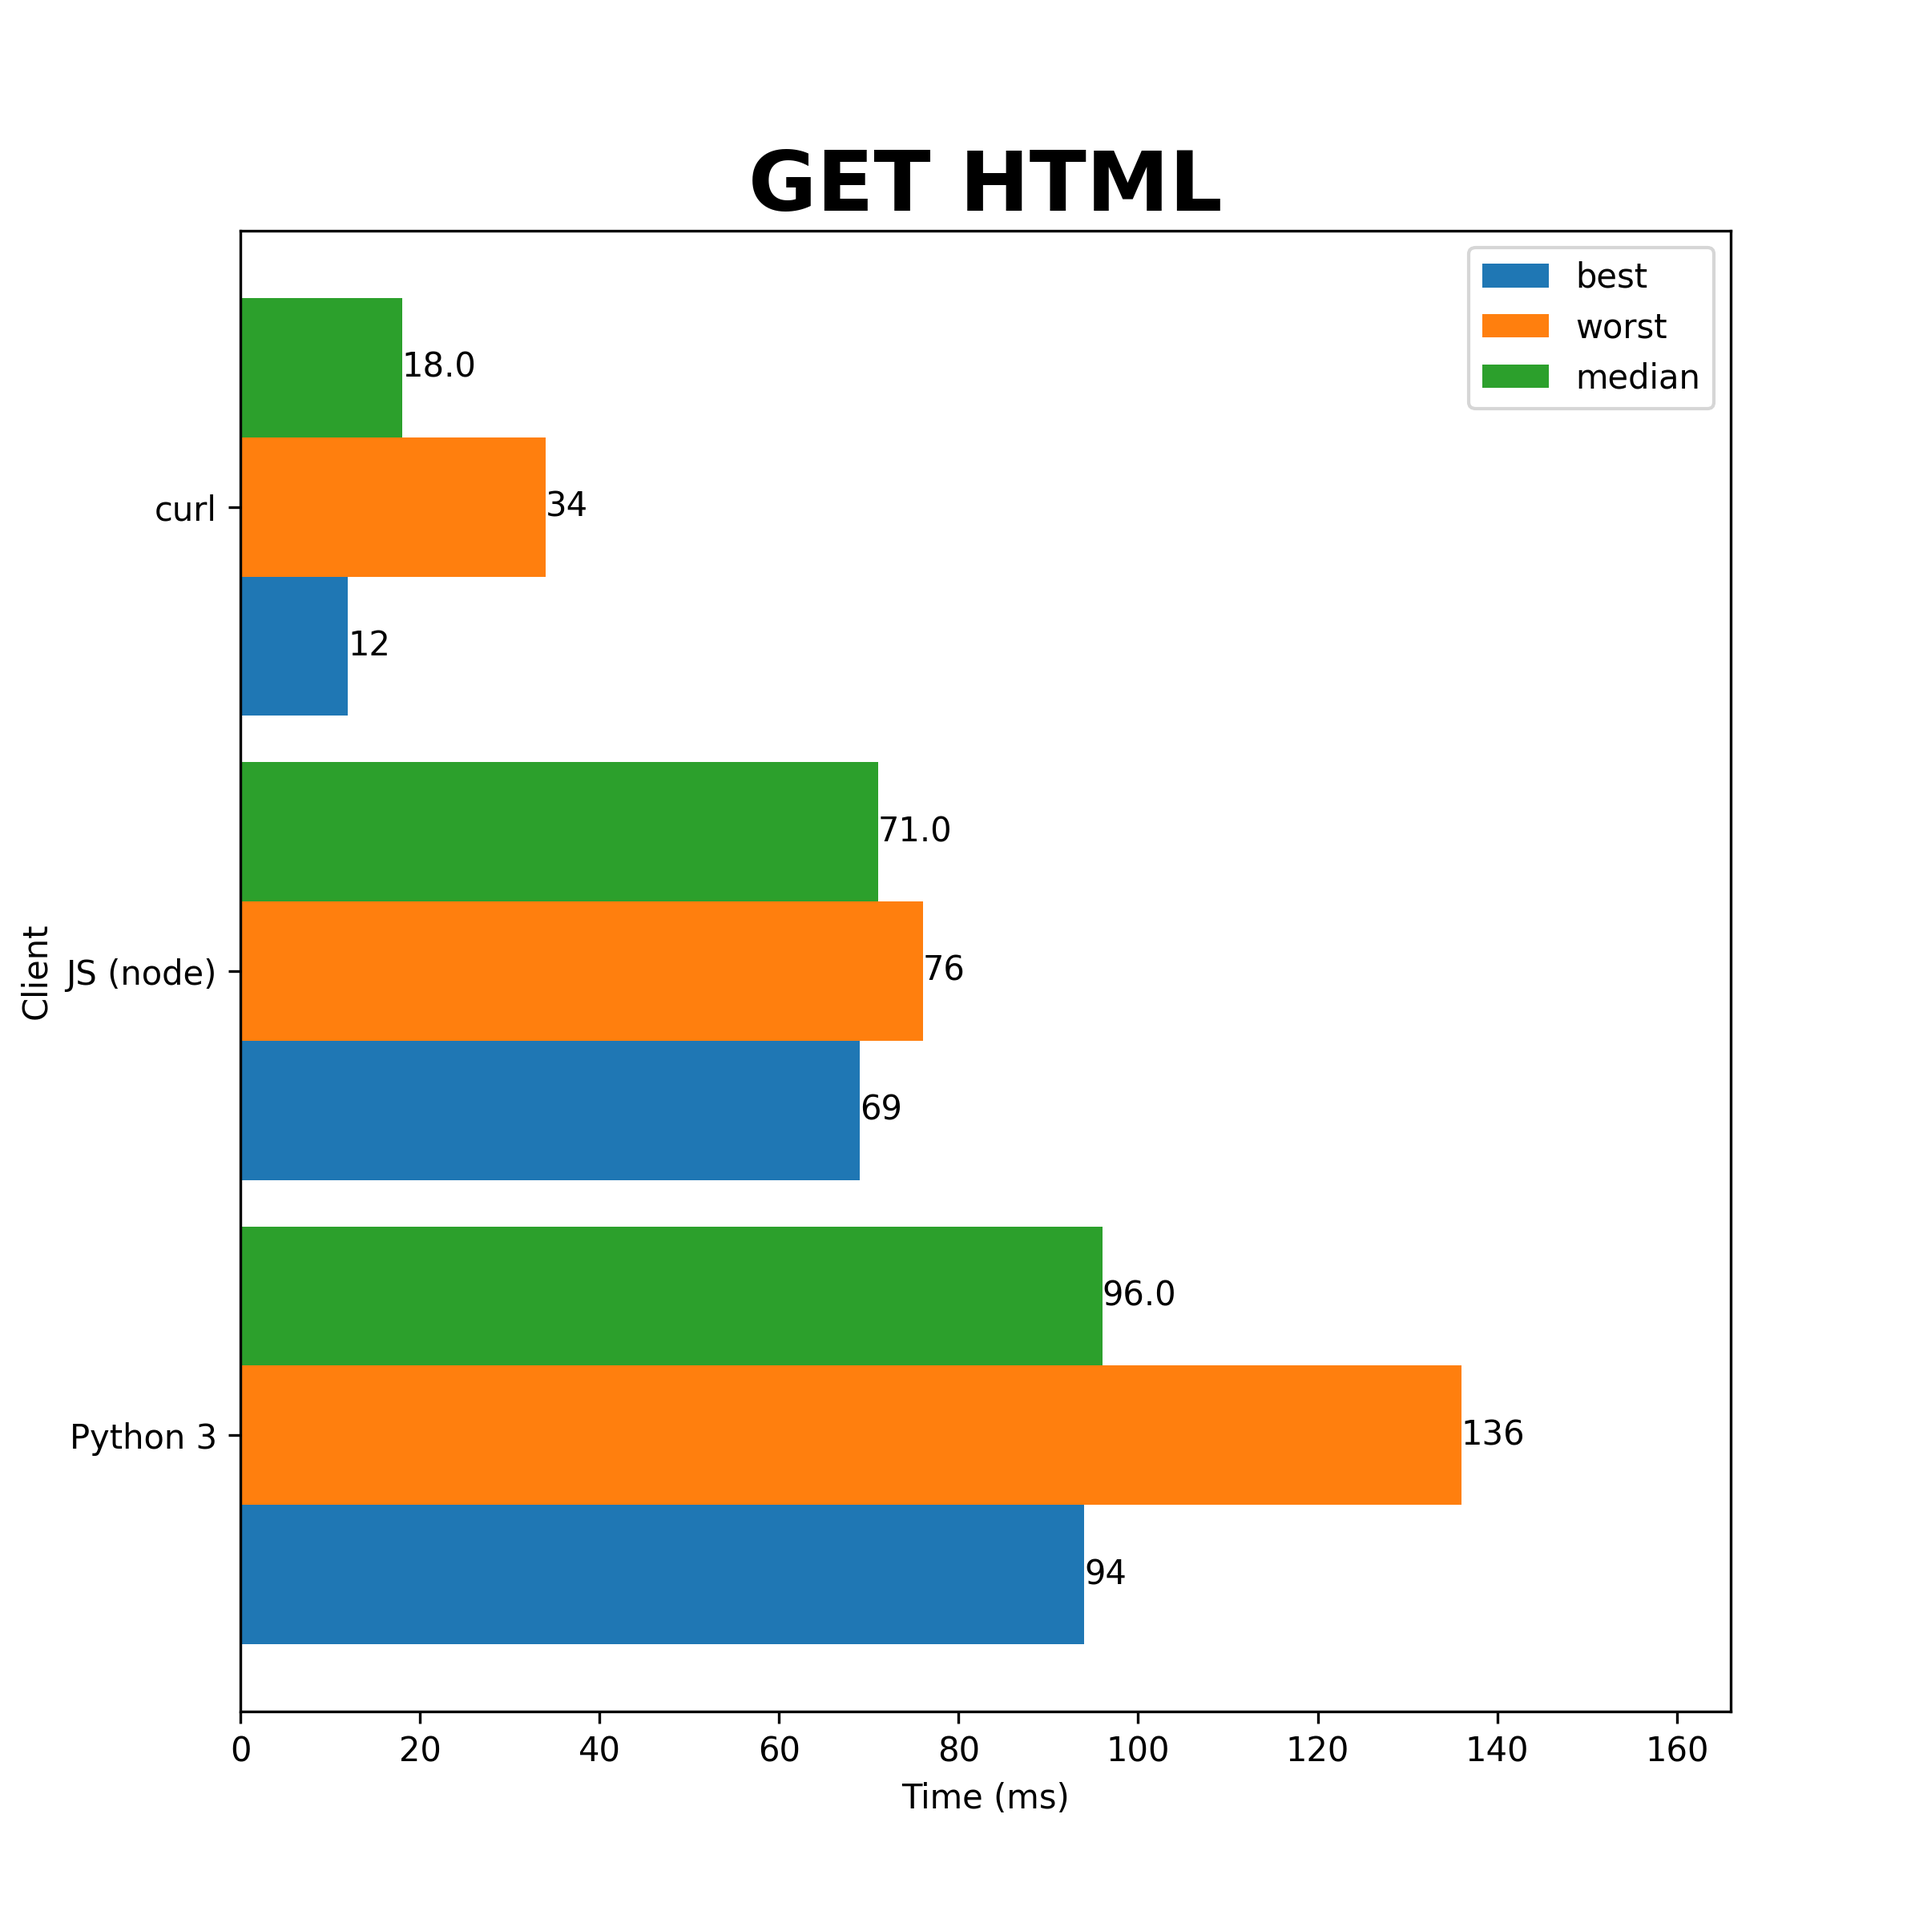
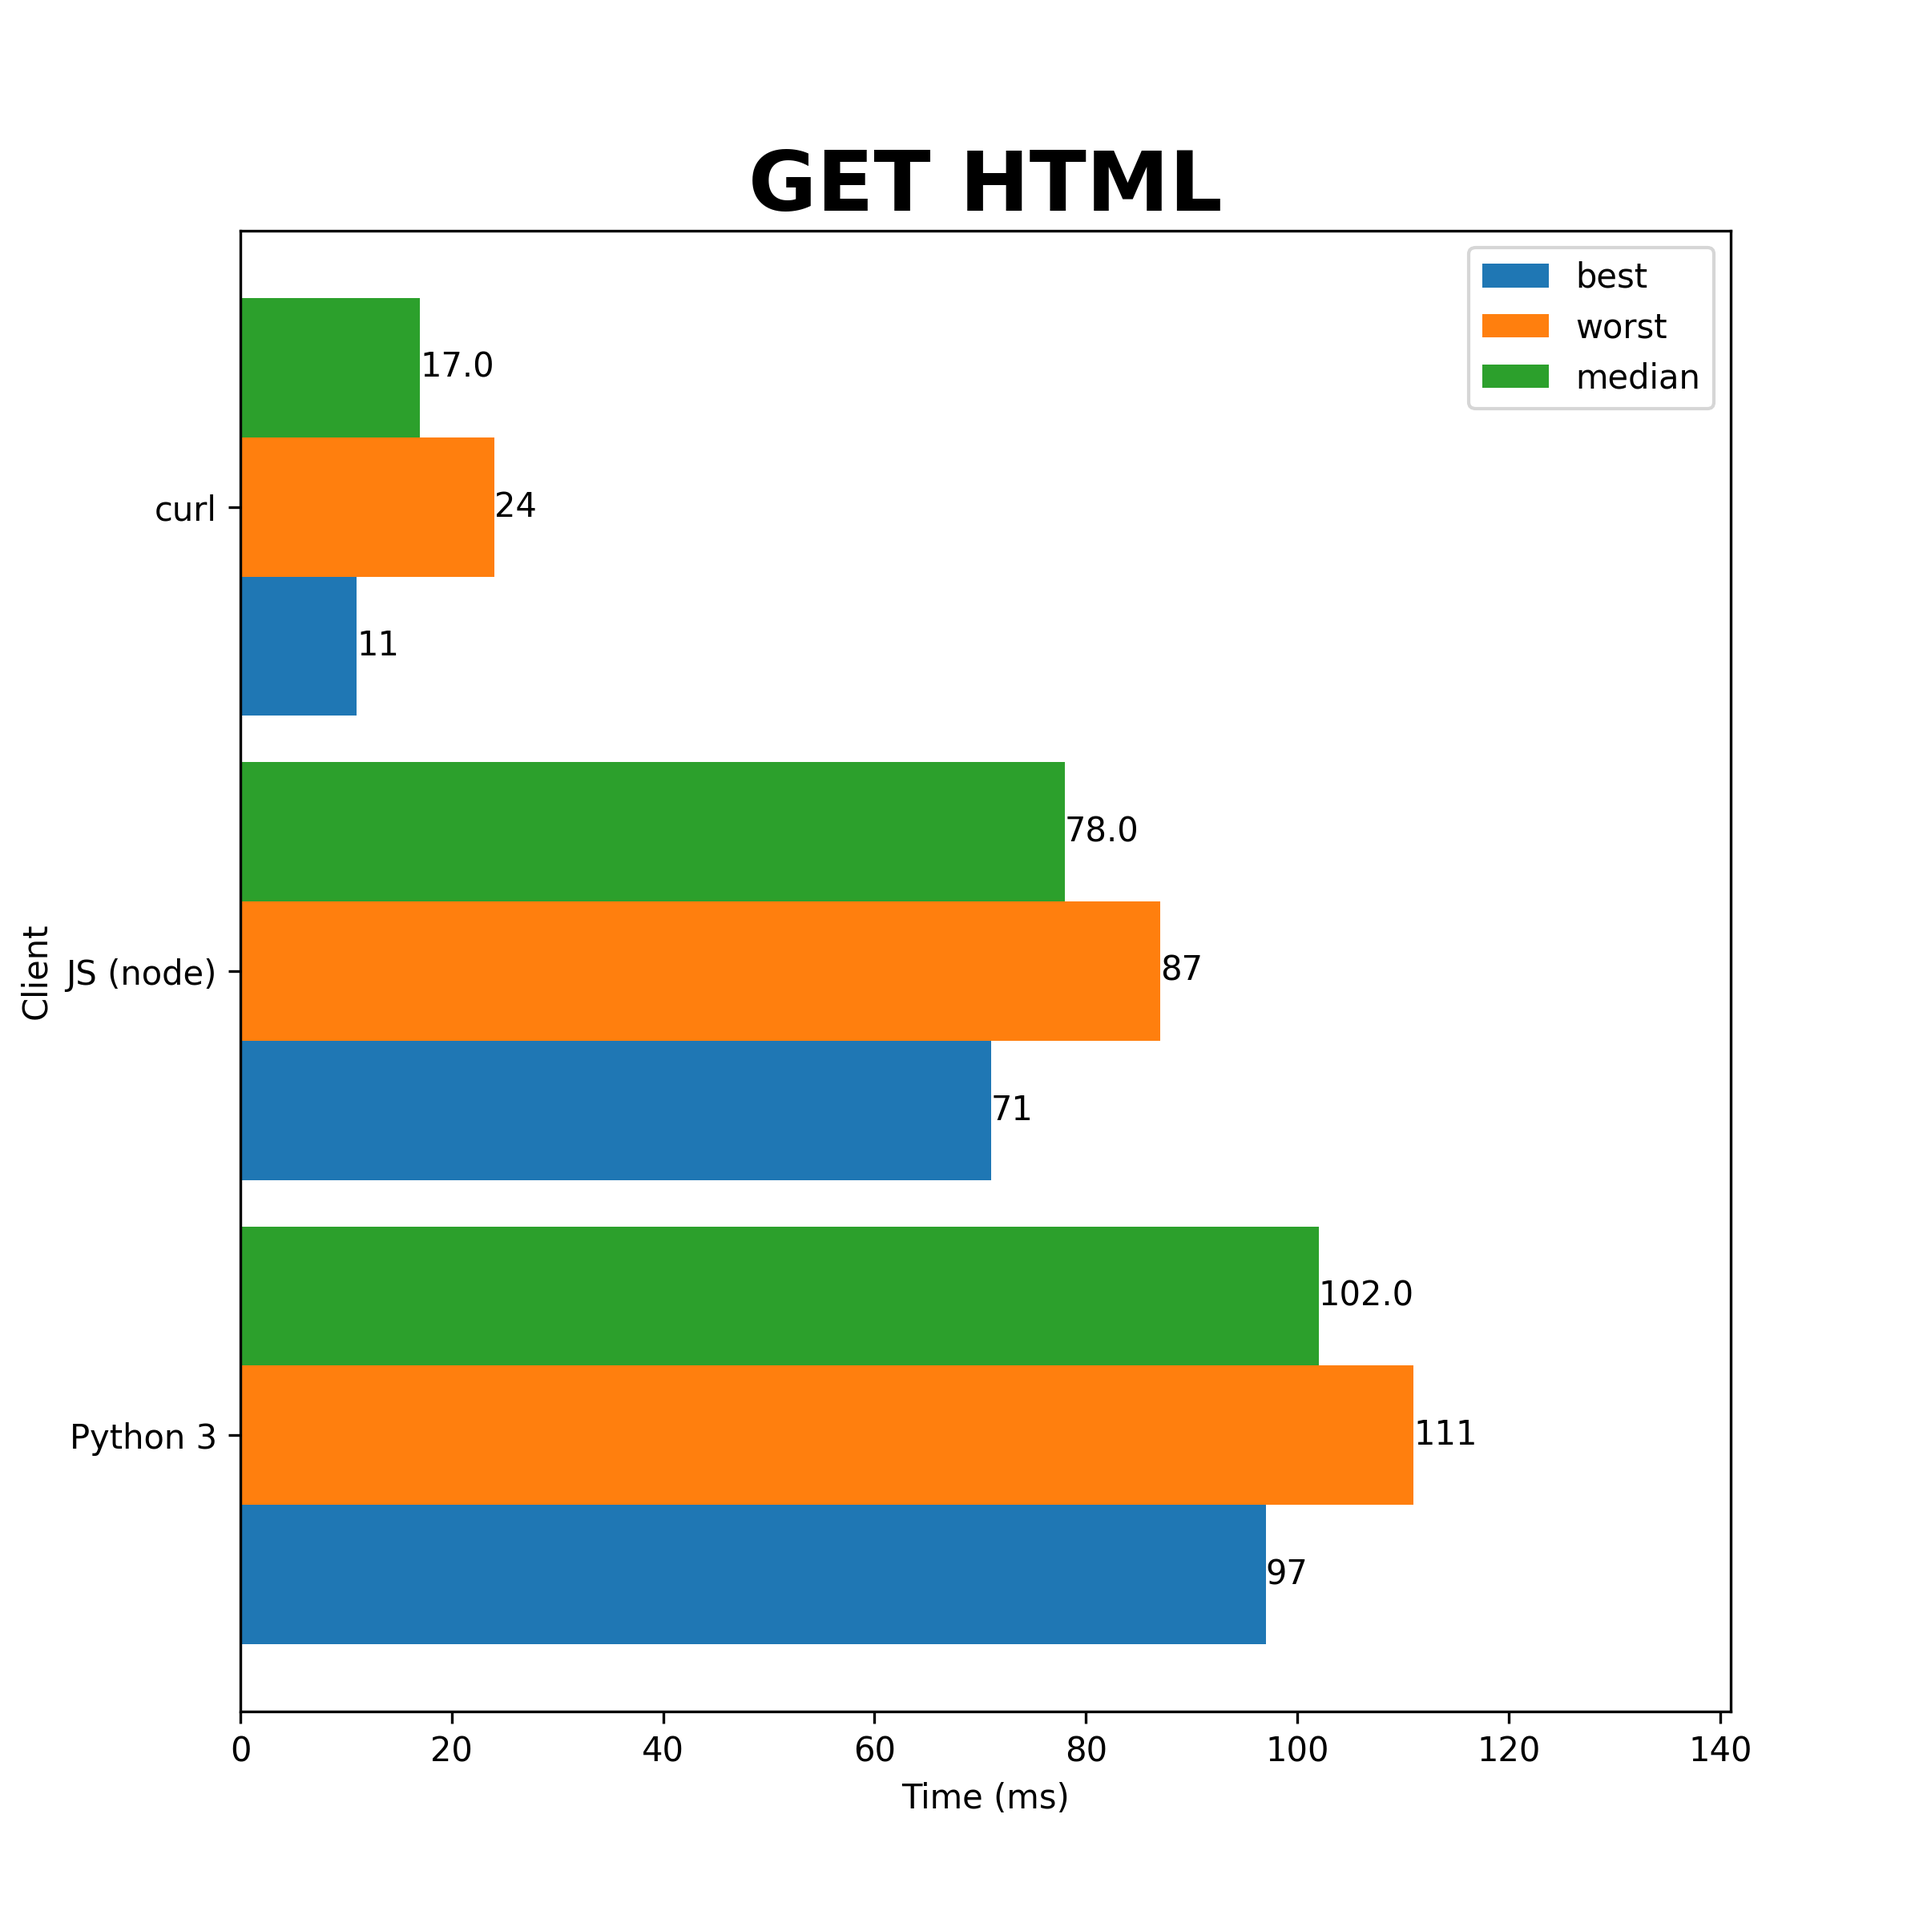
add response time & server speed results

diff --git a/ServerResultProcessing.py b/ServerResultProcessing.py
@@ -10,15 +10,17 @@ with open('ServerSpeedResult.json') as file:
 
 py_data = data['ServerLanguage']['python']
 js_data = data['ServerLanguage']['javascript']
-languages = ['Python 3', 'JS (node)']
+go_data = data['ServerLanguage']['go']
+languages = ['Python 3', 'JS (node)', 'Go']
 
 def makeData(resource,method):
     temp_py = py_data[resource][method]
     temp_js = js_data[resource][method]
+    temp_go = go_data[resource][method]
 
-    best = list(map(lambda x : float(format(x,'.2f')),[min(temp_py), min(temp_js)]))
-    worst = list(map(lambda x : float(format(x,'.2f')),[max(temp_py), max(temp_js)]))
-    median = list(map(lambda x : float(format(x,'.2f')),[statistics.median(temp_py), statistics.median(temp_js)]))
+    best = list(map(lambda x : float(format(x,'.2f')),[min(temp_py), min(temp_js), min(temp_go)]))
+    worst = list(map(lambda x : float(format(x,'.2f')),[max(temp_py), max(temp_js), max(temp_go)]))
+    median = list(map(lambda x : float(format(x,'.2f')),[statistics.median(temp_py), statistics.median(temp_js), statistics.median(temp_go)]))
 
     return [best,worst,median]
 
@@ -26,7 +28,7 @@ def makePlot(fig,best,worst,median,title):
     fig.rcParams["figure.figsize"] = (8,8)
     width = 0.3
 
-    index = [0,1]
+    index = [0,1,2]
     fig.barh(index, best, width)
 
     for i,v in enumerate(index):
@@ -48,7 +50,7 @@ def makePlot(fig,best,worst,median,title):
         fig.text(median[i],v,s,horizontalalignment='left',verticalalignment='center')
 
     fig.xlim(0,max(worst) + max(best) )
-    fig.yticks([0.2,1.3],languages)
+    fig.yticks([0.2,1.3,2.3],languages)
     fig.ylabel('Server')
     fig.xlabel('Time(ms)')
     fig.title(title, fontsize = 25, fontweight = "bold")
@@ -61,7 +63,7 @@ json_post = makeData('json','POST')
 calc_get = makeData('calc','GET')
 html_get = makeData('html','GET')
 
-os.chdir('../../results/Server Speed')
+os.chdir('../results/Server Speed')
 
 makePlot(plt,json_get[0],json_get[1],json_get[2],'GET JSON')
 makePlot(plt,json_post[0],json_post[1],json_post[2],'POST JSON')
